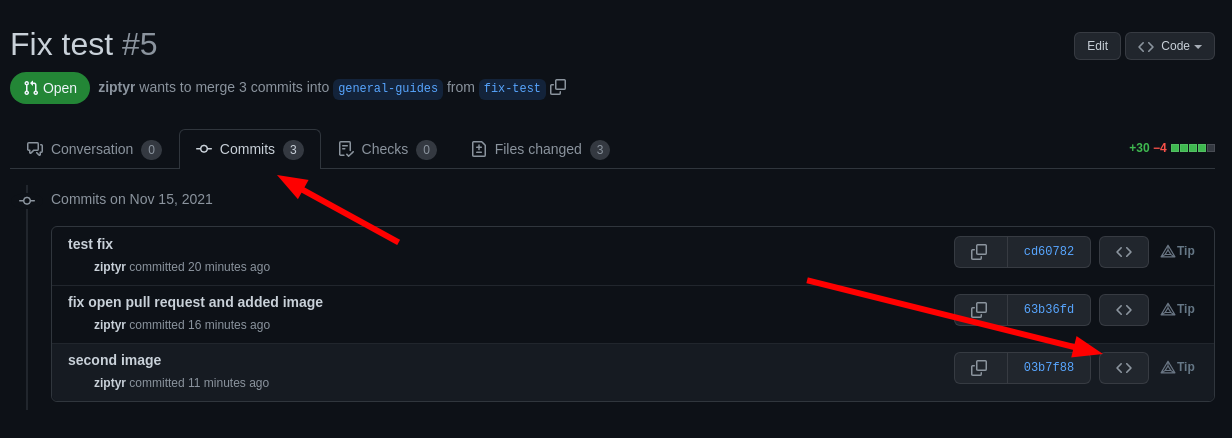
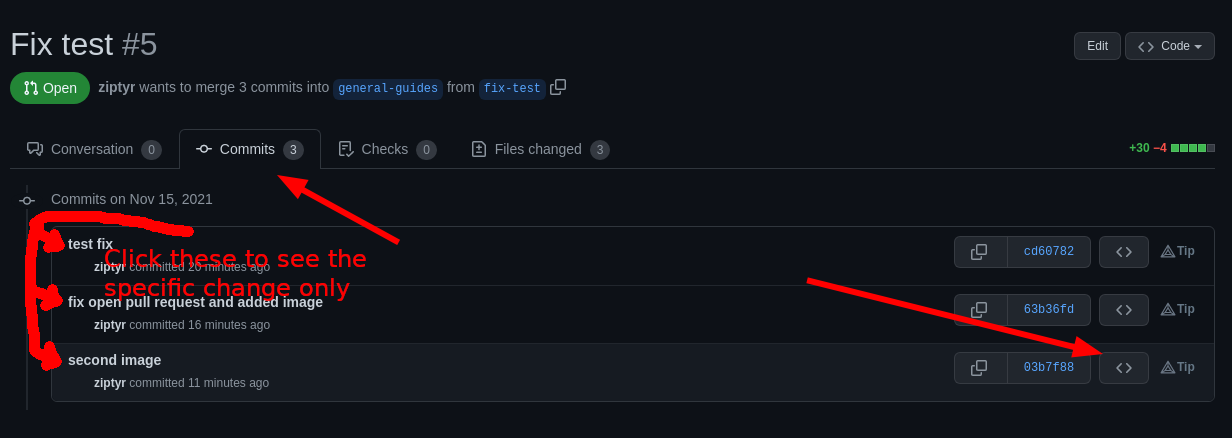
view codes side-by-side, check individual commit

Changed region(s): [[0.0, 0.4749, 0.3084, 0.8607]]

diff --git a/Guides/GIT.md b/Guides/GIT.md
@@ -77,6 +77,10 @@ Commits can be opened in the web page or with git commands.
 
 `git checkout new-branch-name`
 
+![](Side_By_Side.png)
+
+You might like to see the old and new code side by side.
+
 ##### Make your own changes
 
 If the Pull Request requires some changes before it can be accepted you can write them in this same
